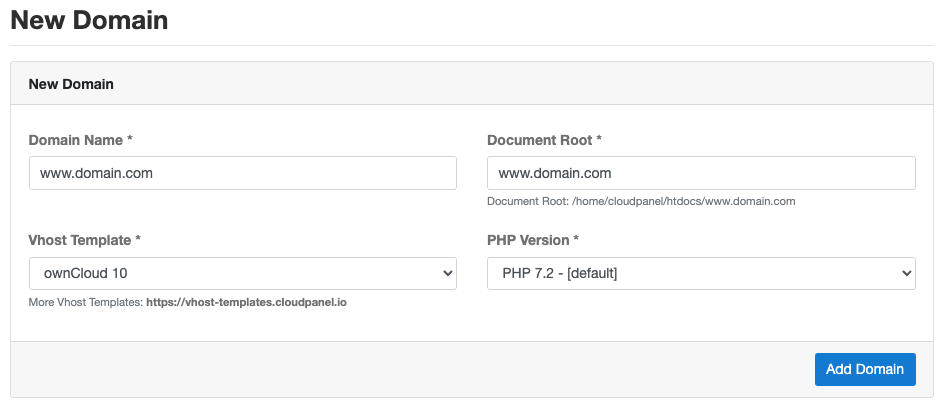
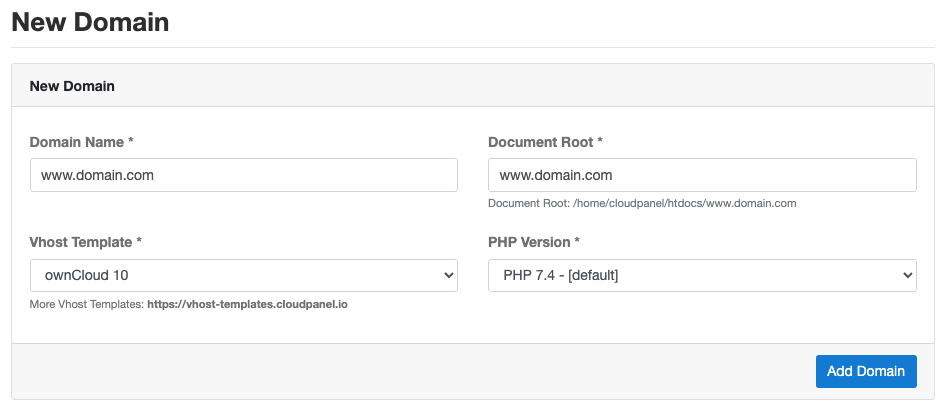
.

diff --git a/cloudpanel-ce/docs/applications/shopware-6.md b/cloudpanel-ce/docs/applications/shopware-6.md
@@ -21,7 +21,7 @@ When you [Add the Domain](../frontend-area/domains#adding-a-domain), make sure t
 <img class="border" src={useBaseUrl('img/v1/applications/shopware-6/new_domain.png')} /> <br /><br />
 
 :::warning Document Root
-Make sure to point the **Document Root** to the **public** directory and to use **PHP 7.3**.
+Make sure to point the **Document Root** to the **public** directory and to use **PHP 7.4**.
 :::
 
 ### Installation
@@ -35,7 +35,7 @@ cd ~/tmp
 2. Download and extract **Shopware 6**:
 
 ```
-curl -sLo shopware6.zip https://www.shopware.com/en/Download/redirect/version/sw6/file/install_v6.3.3.1_124cb4c92cbfec1bcfa33b5d2d81aa05b8656835.zip && unzip shopware6.zip -d shopware6
+curl -sLo shopware6.zip https://www.shopware.com/en/Download/redirect/version/sw6/file/install_v6.3.5.1_b2d5d91f1f2189b0112601b0cfd65073b2d12dd4.zip && unzip shopware6.zip -d shopware6
 ```
 
 3. Move files to the **htdocs** directory of the domain:

diff --git a/cloudpanel-ce/docs/applications/presta-shop-1.7.md b/cloudpanel-ce/docs/applications/presta-shop-1.7.md
@@ -33,7 +33,7 @@ cd ~/tmp
 2. Download and extract the latest **PrestaShop 1.7** version.
 
 ```
-curl -sL https://github.com/PrestaShop/PrestaShop/archive/1.7.6.8.tar.gz | tar xfz -
+curl -sL https://github.com/PrestaShop/PrestaShop/archive/1.7.7.1.tar.gz | tar xfz -
 ```
 
 :::caution Latest Version
@@ -43,14 +43,14 @@ You find the latest version on github: [https://github.com/PrestaShop/PrestaShop
 3. Move files to the **htdocs** directory of the domain:
 
 ```
-cp -R PrestaShop-1.7.6.8/* /home/cloudpanel/htdocs/www.domain.com/
+cp -R PrestaShop-1.7.7.1/* /home/cloudpanel/htdocs/www.domain.com/
 ```
 
 4. Install via **composer**:
 
 ```
 cd /home/cloudpanel/htdocs/www.domain.com/
-php7.2 /usr/local/bin/composer install
+php7.4 /usr/local/bin/composer install
 ```
 
 5. Reset permissions.

diff --git a/cloudpanel-ce/docs/applications/owncloud-10.md b/cloudpanel-ce/docs/applications/owncloud-10.md
@@ -33,7 +33,7 @@ cd ~/tmp
 2. Download and extract the latest **ownCloud 10** version.
 
 ```
-curl -sL https://download.owncloud.org/community/owncloud-complete-20200731.tar.bz2 | tar xfj -
+curl -sL https://download.owncloud.org/community/owncloud-complete-20201216.tar.bz2 | tar xfj -
 ```
 
 :::caution Latest Version
